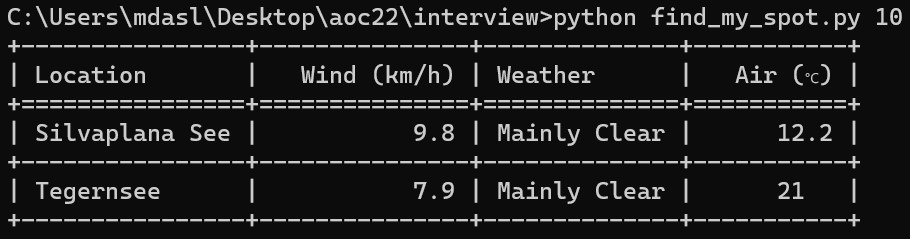
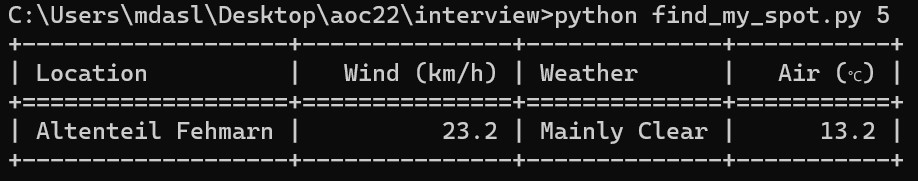
updated

Changed region(s): [[0.0, 0.0276, 1.0, 0.4696], [0.0, 0.663, 0.9846, 0.9392], [0.0, 0.4972, 0.9846, 0.6077]]

diff --git a/README.md b/README.md
@@ -59,5 +59,3 @@ Sample outputs
 ![Sample Image](images/output_1.jpg)
 
 ![Sample Image](images/output_2.jpg)
-
-![Sample Image](images/output_3.jpg)
